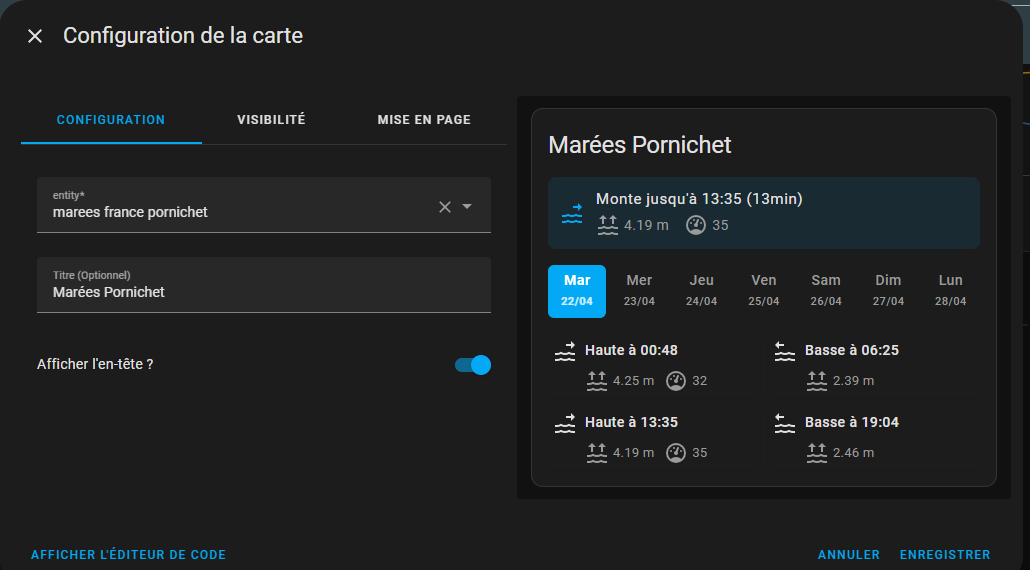
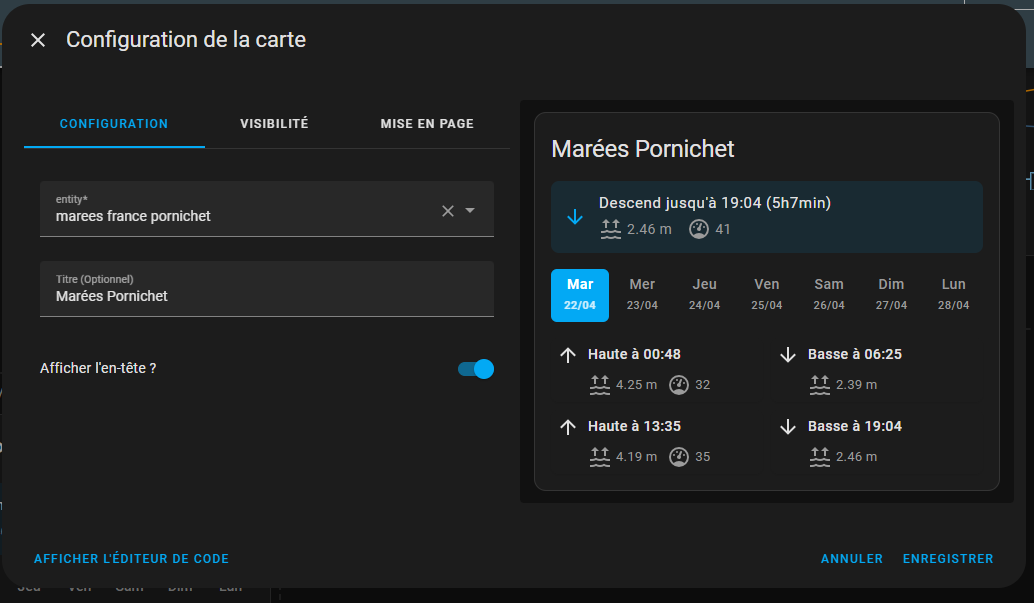
fix wrong time calculation

diff --git a/custom_components/marees_france/frontend/marees-france-card.js b/custom_components/marees_france/frontend/marees-france-card.js
@@ -73,7 +73,7 @@ function getCurrentTideStatus(tideData, hass) {
           const coefficient = nextTide.coefficient || null; // Coefficient is on the high tide
           currentStatus = {
               statusText: `Monte jusqu'à ${nextTide.time} (${timeStr})`,
-              icon: 'mdi:waves-arrow-right',
+              icon: 'mdi:arrow-up',
               coefficient: coefficient,
               height: nextTide.height // Height at peak
           };
@@ -90,7 +90,7 @@ function getCurrentTideStatus(tideData, hass) {
 
           currentStatus = {
               statusText: `Descend jusqu'à ${nextTide.time} (${timeStr})`,
-              icon: 'mdi:waves-arrow-left',
+              icon: 'mdi:arrow-down',
               coefficient: coefficient, // Show next high tide's coeff
               height: nextTide.height // Height at low point
           };
@@ -99,7 +99,7 @@ function getCurrentTideStatus(tideData, hass) {
        // If only next tide is known (e.g., before the first tide)
        currentStatus = {
            statusText: `Prochaine marée (${nextTide.type === 'high' ? 'Haute' : 'Basse'}) à ${nextTide.time}`,
-           icon: nextTide.type === 'high' ? 'mdi:waves-arrow-right' : 'mdi:waves-arrow-left',
+           icon: nextTide.type === 'high' ? 'mdi:arrow-up' : 'mdi:arrow-down',
            coefficient: nextTide.coefficient,
            height: nextTide.height
        };
@@ -284,7 +284,7 @@ class MareesFranceCard extends LitElement {
 
   _renderTide(tide) {
     const isHigh = tide.type === 'high';
-    const icon = isHigh ? 'mdi:waves-arrow-right' : 'mdi:waves-arrow-left';
+    const icon = isHigh ? 'mdi:arrow-up' : 'mdi:arrow-down';
     const statusText = isHigh ? 'Haute' : 'Basse';
 
     return html`

diff --git a/custom_components/marees_france/coordinator.py b/custom_components/marees_france/coordinator.py
@@ -10,6 +10,7 @@ from typing import Any
 
 # Third-party imports
 import aiohttp
+import pytz
 
 # Home Assistant core imports
 from homeassistant.config_entries import ConfigEntry
@@ -126,7 +127,8 @@ class MareesFranceUpdateCoordinator(DataUpdateCoordinator[dict[str, Any]]):
         ] = []  # For easier next/previous calculation
 
         now_utc = datetime.now(timezone.utc)
-
+        paris_tz = pytz.timezone("Europe/Paris") # Define Paris timezone
+        
         for day_str, tides in raw_data.items():
             if day_str not in parsed_data:
                 parsed_data[day_str] = {"high_tides": [], "low_tides": []}
@@ -146,11 +148,10 @@ class MareesFranceUpdateCoordinator(DataUpdateCoordinator[dict[str, Any]]):
                     tide_dt_naive = datetime.strptime(
                         f"{day_str} {time_str}", f"{DATE_FORMAT} %H:%M"
                     )
-                    # Make it timezone-aware (UTC for comparison baseline)
-                    # This is an approximation; ideally, we'd know the harbor's timezone.
-                    tide_dt_utc = tide_dt_naive.replace(
-                        tzinfo=timezone.utc
-                    )  # Approximation
+                    # Localize the naive datetime to the harbor's timezone (Europe/Paris)
+                    tide_dt_local = paris_tz.localize(tide_dt_naive)
+                    # Convert to UTC for consistent comparison and storage
+                    tide_dt_utc = tide_dt_local.astimezone(timezone.utc)
 
                 except ValueError:
                     _LOGGER.warning(
@@ -208,27 +209,28 @@ class MareesFranceUpdateCoordinator(DataUpdateCoordinator[dict[str, Any]]):
                 if len(all_tides_flat) > 1:
                     previous_tide = all_tides_flat[-2]
 
-        # Determine tide status (rising/falling)
+        # Determine tide status based on the type of the most recent past tide
         tide_status = None
-        if previous_tide and next_tide:
-            prev_type = previous_tide.get("type")
-            next_type = next_tide.get("type")
-            if prev_type == TIDE_LOW and next_type == TIDE_HIGH:
-                tide_status = "rising"
-            elif prev_type == TIDE_HIGH and next_type == TIDE_LOW:
-                tide_status = "falling"
+        if current_tide: # current_tide holds the most recent past tide event
+            current_tide_type = current_tide.get("type")
+            if current_tide_type == TIDE_LOW:
+                tide_status = "rising" # If last tide was low, it's now rising
+            elif current_tide_type == TIDE_HIGH:
+                tide_status = "falling" # If last tide was high, it's now falling
             else:
-                _LOGGER.warning(
-                    "Could not determine tide status from prev (%s) to next (%s)",
-                    prev_type,
-                    next_type,
-                )
-        elif not previous_tide:
-             _LOGGER.debug("No previous tide found, cannot determine status.")
-        elif not next_tide:
-             _LOGGER.debug("No next tide found, cannot determine status.")
-
-
+                _LOGGER.warning("Unknown type for current_tide: %s", current_tide_type)
+        else:
+            # If there's no past tide (e.g., first data point), try to infer from next tide
+            if next_tide:
+                next_tide_type = next_tide.get("type")
+                if next_tide_type == TIDE_HIGH:
+                     tide_status = "rising" # Approaching high tide
+                elif next_tide_type == TIDE_LOW:
+                     tide_status = "falling" # Approaching low tide
+            else:
+                _LOGGER.debug("Cannot determine tide status: No current or next tide data.")
+        
+        
         return {
             "data": parsed_data,
             "current_tide": current_tide, # Note: current_tide is the last past tide

diff --git a/custom_components/marees_france/sensor.py b/custom_components/marees_france/sensor.py
@@ -139,10 +139,7 @@ class MareesFranceSensor(
             # Use translated_type provided by coordinator
             type_label = tide_data.get("translated_type", "Unknown")
             time_str = tide_data.get("time")
-            coeff_str = tide_data.get("coefficient")
             parts = [type_label, time_str]
-            if coeff_str:
-                parts.append(coeff_str)
             return " ".join(parts)
 
         attrs = {
@@ -162,9 +159,9 @@ class MareesFranceSensor(
         tide_status = self.coordinator.data.get("tide_status")
 
         if tide_status == "rising":
-            return "mdi:waves-arrow-right" # Reverted to MDI icon
+            return "mdi:arrow-up" # Reverted to MDI icon
         if tide_status == "falling":
-            return "mdi:waves-arrow-left" # Reverted to MDI icon
+            return "mdi:arrow-down" # Reverted to MDI icon
 
         # Fallback if status is unknown or data is missing
         _LOGGER.debug("Tide status not available or unknown (%s), using default mdi:waves icon", tide_status)
